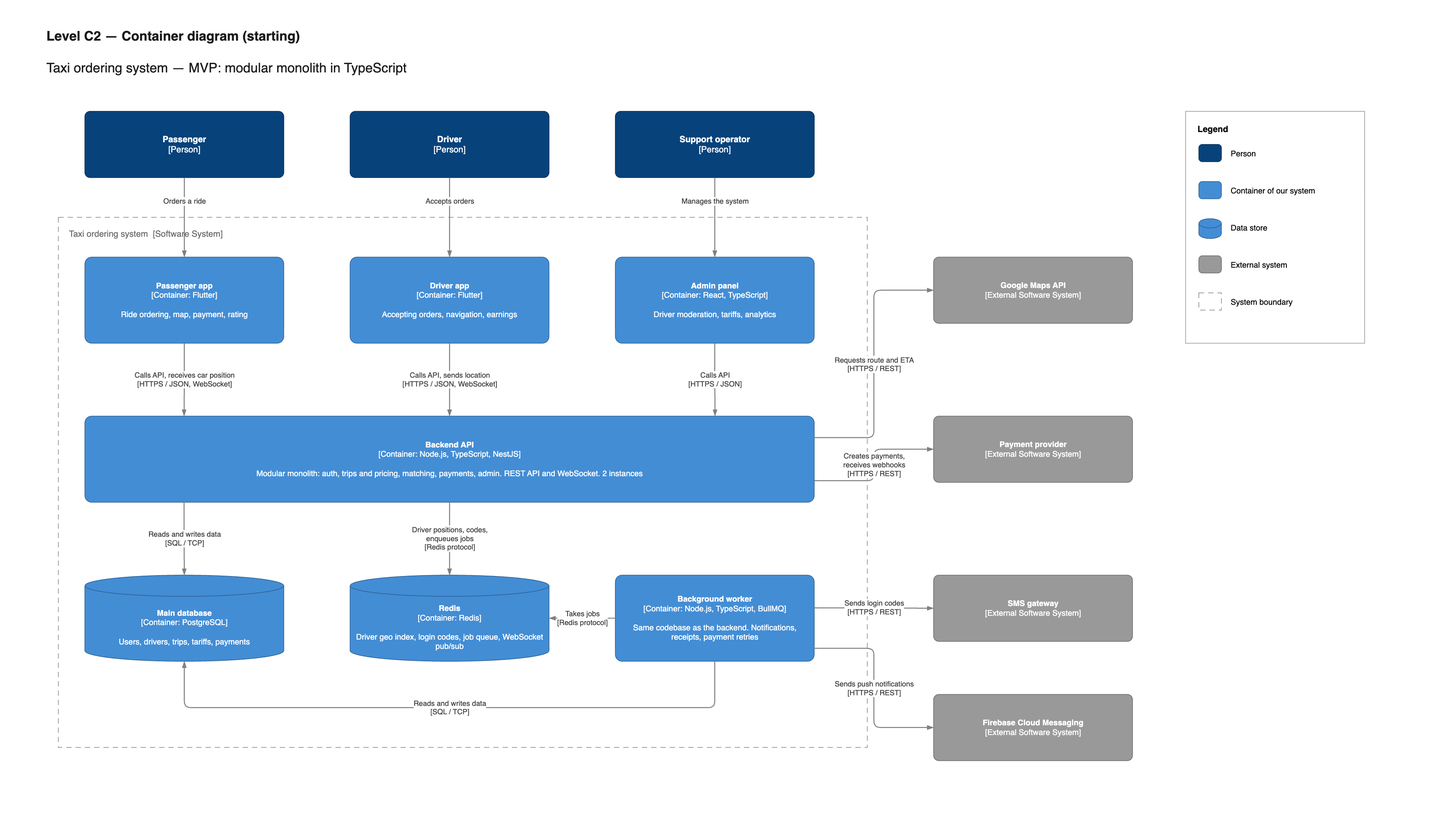
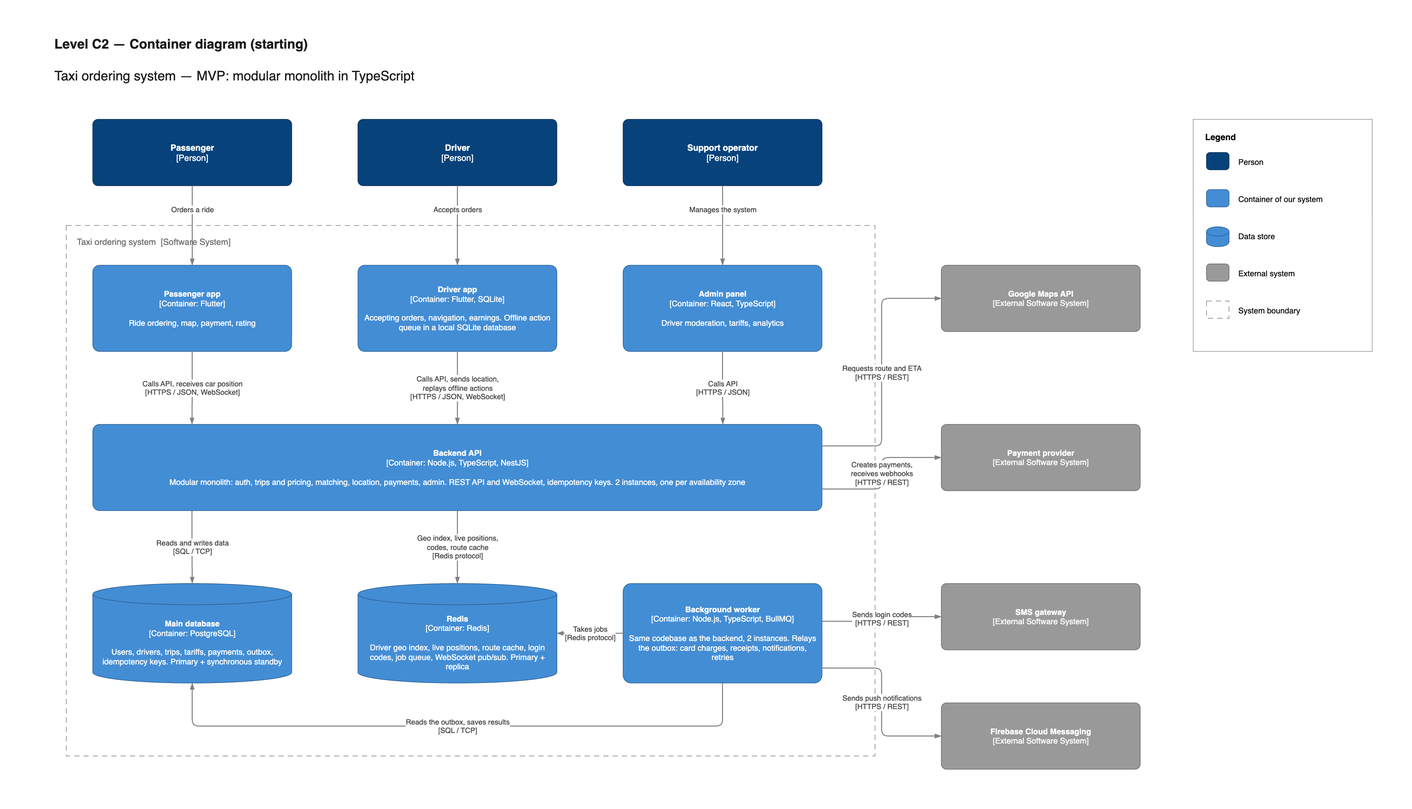
docs: record ADRs 0005-0007 and update starting architecture
- ADR-0005: two availability zones with automatic failover
- ADR-0006: idempotent actions, offline queue and transactional outbox
- ADR-0007: driver positions only in Redis
- New deployment diagram; worker goes from 1 to 2 instances
- C2: offline queue in the driver app, outbox and idempotency keys
- C3: location module, outbox instead of direct job enqueue

Claude-Session: https://claude.ai/code/session_01K2gPc9HqK2oouxzUnXU58f

Changed region(s): [[0.031, 0.0311, 0.8056, 0.9656], [0.6197, 0.1246, 0.9296, 0.4361]]

diff --git a/docs/architecture/starting/README.md b/docs/architecture/starting/README.md
@@ -8,12 +8,14 @@ Principles:
 2. **Modular monolith instead of microservices.** One backend codebase split into modules that mirror the ideal services. Modules call each other in-process, not over the network.
 3. **Specific technology only where it is really needed.** Every technology outside TypeScript must be justified by a requirement.
 4. **Managed services instead of self-hosted infrastructure.** PostgreSQL and Redis are rented as managed services, so the team does not operate databases.
+5. **Optimised for availability, fault tolerance and performance.** These are the three top [architecture characteristics](../characteristics.md); the others get a baseline and a stated consequence.
 
 ## Diagrams
 
 - [C1 — System Context](c1-system-context.md)
 - [C2 — Containers](c2-containers.md)
 - [C3 — Components of the backend API](c3-backend-api.md)
+- [Deployment](deployment.md)
 - draw.io: [`diagrams/taxi-c4-model-starting.drawio`](diagrams/taxi-c4-model-starting.drawio)
 
 ## Languages
@@ -43,7 +45,7 @@ Every container of the ideal architecture and what happens to it at the start:
 | Order service | Node.js | **Module** of the backend — trips module | Core logic stays isolated as a module |
 | Driver matching service | Go | **Module** of the backend — matching module, in TypeScript | 10–50 orders per minute do not need Go. The heavy part — nearest-driver search — is done by Redis |
 | Payment service | Node.js | **Module** of the backend — payments module | Card data never reaches us anyway (provider tokens, NFR-12), so a separate service gives little extra isolation |
-| Notification service | Node.js | **Background worker** — same codebase, separate process | Sending push and SMS must not slow down API requests |
+| Notification service | Node.js | **Background worker** — same codebase, separate process, 2 instances | Sending push and SMS must not slow down API requests. Also relays the outbox ([ADR-0006](../adr/0006-idempotent-actions-offline-queue-and-outbox.md)) |
 | PostgreSQL | PostgreSQL | **Kept** — managed PostgreSQL | Needs a real relational database (see below) |
 | Redis | Redis | **Kept** — managed Redis, used for more jobs | Needs Redis (see below) |
 | Kafka | Kafka | **Removed** — replaced by a job queue in Redis (BullMQ) | A Kafka cluster is expensive to run and operate; at 10 orders per minute a Redis queue with retries is enough |
@@ -56,7 +58,7 @@ Result: **12 containers → 7**, **5 languages → 3**, **3 data stores → 2**.
 | Technology | Why plain TypeScript code is not enough | Requirements |
 |---|---|---|
 | **PostgreSQL** | Trips and payments need transactions and integrity (a trip must not be paid twice). Managed PostgreSQL gives point-in-time recovery for RPO ≤ 15 min | NFR-10, FR-37, FR-15 |
-| **Redis** | One tool covers five jobs: (1) geo index of available drivers — nearest-driver search in milliseconds with ≈ 330–1,700 position updates per second; (2) one-time login codes and offer timers with automatic expiry (TTL); (3) job queue with retries for notifications, receipts and payment retries; (4) pub/sub that delivers WebSocket events between the two backend instances; (5) rate-limit counters. Without Redis each of these would need a separate solution | NFR-1, NFR-2, NFR-13, FR-1, FR-22, FR-14 |
+| **Redis** | One tool covers six jobs: (1) geo index of available drivers — nearest-driver search in milliseconds with ≈ 330–1,700 position updates per second, never written to PostgreSQL on the hot path ([ADR-0007](../adr/0007-driver-positions-in-redis-only.md)); (2) one-time login codes and offer timers with automatic expiry (TTL); (3) job queue with retries for notifications, receipts and payment retries; (4) pub/sub that delivers WebSocket events and live positions between the two backend instances; (5) rate-limit counters; (6) cache of repeated routes. Without Redis each of these would need a separate solution | NFR-1, NFR-2, NFR-13, FR-1, FR-22, FR-14 |
 | **Flutter** | Team constraint; background location and native maps on both platforms | CON-4, NFR-22, NFR-23 |
 | **Google Maps API** | Routes, ETA and address autocomplete are not something to build ourselves | CON-5, FR-4, FR-10 |
 | **Payment provider** | PCI DSS — card data must stay with a certified provider | CON-6, NFR-12 |
@@ -76,20 +78,7 @@ Result: **12 containers → 7**, **5 languages → 3**, **3 data stores → 2**.
 
 ## Deployment
 
-```
-Mobile apps, admin panel
-        │  HTTPS / WebSocket — one address: api.<domain>
-        ▼
-Managed load balancer (TLS)
-        │
-        ├── Backend API — 2 instances in different availability zones
-        └── Background worker — 1 instance
-                │
-                ├── Managed PostgreSQL — primary + standby, point-in-time recovery
-                └── Managed Redis — primary + replica, persistence enabled
-```
-
-Two backend instances in different zones and managed databases with a standby cover the 99.9% availability target ([NFR-7](../../requirements/non-functional.md)).
+One EU region, two availability zones: two backend instances and two workers (one of each per zone), PostgreSQL primary + synchronous standby and Redis primary + replica in different zones, all behind a managed load balancer. This covers the 99.9% availability target ([NFR-7](../../requirements/non-functional.md)) and survives the loss of a whole zone. Details and the diagram: [deployment](deployment.md), decision: [ADR-0005](../adr/0005-two-availability-zones-with-failover.md).
 
 ### Infrastructure cost estimate
 
@@ -98,18 +87,22 @@ Rough monthly estimate for one EU region (Google Maps and SMS are counted separa
 | Item | USD per month |
 |---|---|
 | Backend API, 2 instances (2 vCPU, 4 GB) | 80 – 150 |
-| Background worker, 1 instance | 40 – 70 |
+| Background worker, 2 instances | 80 – 140 |
 | Managed PostgreSQL with standby | 150 – 300 |
 | Managed Redis with replica | 60 – 120 |
 | Load balancer, file storage (driver documents), backups | 50 – 100 |
 | Logging and monitoring | 0 – 100 |
-| **Total** | **≈ 380 – 840** |
+| **Total** | **≈ 420 – 910** |
 
 ## Trade-offs
 
 - **One deployable:** a bug in one module can take down the whole backend. Mitigated by two instances, staged rollout ([NFR-26](../../requirements/non-functional.md)) and fast rollback.
 - **Shared database load:** a heavy analytics query from the admin panel can slow down trips. Mitigated by limiting admin queries and adding a read replica when needed.
-- **No event replay:** a Redis job queue does not keep a history of events the way Kafka does. Trip state lives in PostgreSQL, so nothing is lost, but past events cannot be re-processed.
+- **No event replay:** a Redis job queue does not keep a history of events the way Kafka does. Trip state and the outbox live in PostgreSQL, so nothing is lost, but past events cannot be re-processed.
+- **One region:** a whole-region outage is not covered by failover; recovery from backups in the second region takes hours (NFR-10 holds for zone failures only).
+- **Payments in the same process:** the separate network zone for payments (NFR-12) exists only in the ideal architecture.
+
+These follow from the characteristics that were deliberately left out of the top three, see [characteristics](../characteristics.md#left-out-and-the-consequence).
 
 ## Path to the ideal architecture
 

diff --git a/docs/architecture/starting/c3-backend-api.md b/docs/architecture/starting/c3-backend-api.md
@@ -10,15 +10,16 @@ The backend API is the only container with business logic, so it is the one open
 
 | Component | Role | Becomes in the ideal architecture |
 |---|---|---|
-| API layer | NestJS controllers for REST and a Socket.IO gateway for WebSocket. Validates input, checks the access token, applies rate limits. No business logic | API Gateway + real-time service |
+| API layer | NestJS controllers for REST and a Socket.IO gateway for WebSocket. Validates input, checks the access token, applies rate limits, returns the stored result for a repeated idempotency key. No business logic | API Gateway + real-time service |
 | Auth module | Login codes (6 digits, 5 min TTL in Redis), Google / Apple sign-in, access and refresh tokens | Part of the gateway |
 | Admin module | Driver moderation, tariff management, analytics queries | Admin endpoints of the services |
-| Trips module | Trip state machine, cancellations and fees, price calculation with the shared pricing package ([`packages/shared/pricing.js`](../../../packages/shared/pricing.js)) | Order service |
+| Trips module | Trip state machine, cancellations and fees, price calculation with the shared pricing package ([`packages/shared/pricing.js`](../../../packages/shared/pricing.js)). Saves the trip state and the outbox event (charge, push, receipt) in one transaction | Order service |
 | Matching module | Nearest drivers via Redis `GEOSEARCH`, ranking, offers with a 15 s timeout | Driver matching service |
-| Payments module | Payment provider client, webhook handling, refunds | Payment service |
-| Data access | Prisma client and migrations; the only place that knows the database schema | Repositories in each service |
-| Maps client | Google Maps calls for distance, duration and ETA, with caching of repeated routes | Maps client of the order service |
-| Redis adapter | ioredis and BullMQ: geo index, TTL keys, job queue, pub/sub between instances | Redis client + Kafka publisher |
+| Location module | Receives driver positions, updates the Redis geo index and the live trip channel, appends track points to a Redis stream. Never writes to PostgreSQL ([ADR-0007](../adr/0007-driver-positions-in-redis-only.md)) | Real-time service |
+| Payments module | Payment provider client with the trip ID as the idempotency key, webhook deduplication by payment ID, refunds, reconciliation | Payment service |
+| Data access | Prisma client and migrations; the only place that knows the database schema. Writes outbox events and idempotency keys in the same transaction as the business change | Repositories in each service |
+| Maps client | Google Maps calls for distance, duration and ETA; route cache in Redis; circuit breaker with a straight-line fallback (UP-22) | Maps client of the order service |
+| Redis adapter | ioredis and BullMQ: geo index, TTL keys, job queue, pub/sub between instances, route cache | Redis client |
 
 ## Rules inside the monolith
 
@@ -27,6 +28,10 @@ The modules live in one process, so nothing technically stops them from calling 
 1. **A module talks to another module only through its public interface** (an exported NestJS service), never through its database tables.
 2. **Each module owns its tables.** The trips module does not write to payment tables directly — it asks the payments module.
 3. **Business logic does not know about NestJS, Prisma or Redis.** Logic calls interfaces; the data access, maps client and Redis adapter implement them — the same ports-and-adapters idea as in the [ideal C3](../ideal/c3-order-service.md).
+
+## How jobs leave the backend
+
+The trips module does not enqueue jobs into Redis itself. Writing to PostgreSQL and then to Redis is a dual write: a crash between the two steps would lose the card charge. Instead, the trip state and the outbox event are saved in one transaction, and the background worker — the same codebase in worker mode — relays the outbox and executes the job ([ADR-0006](../adr/0006-idempotent-actions-offline-queue-and-outbox.md)). Offers to drivers do not go through the outbox: they are latency-critical and handled by the matching module directly.
 
 Trip states are the same as in the ideal architecture: see [trip states](../ideal/c3-order-service.md#trip-states).
 

diff --git a/docs/architecture/starting/c2-containers.md b/docs/architecture/starting/c2-containers.md
@@ -12,21 +12,25 @@ Seven containers instead of twelve: three client apps, one backend, one backgrou
 
 **Backend API.** One NestJS application that replaces the gateway, the real-time service and four services of the ideal architecture. Inside it is split into modules with the same boundaries as the ideal services, see [C3](c3-backend-api.md). It runs as two instances behind a managed load balancer, so clients know one address ([ADR-0004](../adr/0004-api-gateway-single-entry-point.md)).
 
-**Background worker.** The same codebase started in worker mode. It processes jobs from the Redis queue: push notifications, SMS codes, receipts, payment retries, clean-up of old location data ([NFR-16](../../requirements/non-functional.md)). Slow external calls never block an API request.
+**Driver app offline queue.** Actions the driver takes without a network are stored in a local SQLite database and replayed in order with idempotency keys after reconnection ([ADR-0006](../adr/0006-idempotent-actions-offline-queue-and-outbox.md)). SQLite runs inside the app process, so it is part of the driver app container, not a separate one.
 
-**Two data stores.** PostgreSQL is the source of truth. Redis is the only extra technology on the server side and is used for five jobs: driver geo index, login codes and offer timers with TTL, job queue, WebSocket pub/sub between instances, rate-limit counters.
+**Background worker.** The same codebase started in worker mode, two instances. It relays the outbox — events written by the backend in the same transaction as the business change — and processes jobs from the Redis queue: push notifications, SMS codes, receipts, payment charges and retries, batched trip tracks, clean-up of old location data ([NFR-16](../../requirements/non-functional.md)). Slow external calls never block an API request.
+
+**Two data stores.** PostgreSQL is the source of truth, including the outbox and idempotency keys. Redis is the only extra technology on the server side and is used for six jobs: driver geo index and live positions ([ADR-0007](../adr/0007-driver-positions-in-redis-only.md)), login codes and offer timers with TTL, job queue, WebSocket pub/sub between instances, rate-limit counters, route cache.
+
+How the containers are placed in two availability zones is shown on the [deployment diagram](deployment.md).
 
 ## Containers
 
 | Container | Technology | Responsibility | Instances | Requirements |
 |---|---|---|---|---|
 | Passenger app | Flutter | Ordering, map, payment, rating | — | FR-1 … FR-19 |
-| Driver app | Flutter | Accepting orders, navigation, earnings | — | FR-20 … FR-28 |
+| Driver app | Flutter, SQLite | Accepting orders, navigation, earnings, offline action queue | — | FR-20 … FR-28, NFR-9 |
 | Admin panel | React, TypeScript | Moderation, tariffs, analytics | — | FR-29 … FR-34 |
-| Backend API | Node.js, TypeScript, NestJS, Socket.IO | REST API, WebSocket, all business logic | 2 | FR-1 … FR-38, NFR-1, NFR-3 |
-| Background worker | Node.js, TypeScript, BullMQ | Notifications, receipts, payment retries, clean-up jobs | 1 | FR-14, FR-15, FR-18, NFR-16, NFR-17 |
-| Main database | PostgreSQL (managed) | Users, drivers, trips, tariffs, payments | Primary + standby | NFR-10 |
-| Redis | Redis (managed) | Geo index, TTL keys, job queue, pub/sub, rate limits | Primary + replica | NFR-1, NFR-2, NFR-13 |
+| Backend API | Node.js, TypeScript, NestJS, Socket.IO | REST API, WebSocket, all business logic, idempotency keys | 2, one per zone | FR-1 … FR-38, NFR-1, NFR-3, NFR-8 |
+| Background worker | Node.js, TypeScript, BullMQ | Outbox relay, notifications, receipts, payment charges and retries, clean-up jobs | 2, one per zone | FR-14, FR-15, FR-18, NFR-8, NFR-16, NFR-17 |
+| Main database | PostgreSQL (managed) | Users, drivers, trips, tariffs, payments, outbox, idempotency keys | Primary + synchronous standby | NFR-8, NFR-10 |
+| Redis | Redis (managed) | Geo index, live positions, TTL keys, job queue, pub/sub, rate limits, route cache | Primary + replica | NFR-1, NFR-2, NFR-13 |
 
 ## Compared with the ideal C2
 

diff --git a/docs/architecture/adr/0006-idempotent-actions-offline-queue-and-outbox.md b/docs/architecture/adr/0006-idempotent-actions-offline-queue-and-outbox.md
@@ -1,0 +1,44 @@
+# ADR-0006: Idempotent actions, offline queue in the driver app and transactional outbox
+
+- **Status:** Accepted
+- **Date:** 2026-11-24
+
+## Context
+
+Fault tolerance is one of the three top [architecture characteristics](../characteristics.md) (AC-2). No active trip may be lost, and the apps must keep working on a poor connection ([NFR-8](../../requirements/non-functional.md), [NFR-9](../../requirements/non-functional.md), [UP-13](../../requirements/unhappy-paths.md)). In Ukraine, drivers regularly lose the network during power outages.
+
+Three problems had no answer in the architecture:
+
+1. **A driver action taken offline** ("Passenger on board", "Complete trip") was lost if the app could not reach the server.
+2. **A retried request** after a timeout could be applied twice: the first attempt may have succeeded and only the response was lost.
+3. **A dual write in the trips module.** On completion it saved the trip in PostgreSQL and then enqueued the charge job in Redis. A crash between the two steps lost the charge; enqueuing first and failing the commit charged for a trip that was never completed.
+
+## Decision
+
+Every trip action is delivered **at least once** and applied **exactly once**:
+
+1. **Offline queue in the driver app.** Driver actions are stored in a local SQLite database with the device time, the GPS point and a client-generated idempotency key, and sent in order after reconnection with retries (1, 2, 4 … 30 s). The server state wins a conflict: if the passenger cancelled while the driver was offline, the queued action is rejected and the driver is shown why.
+2. **Idempotency keys on the server.** The API layer stores each processed key with its result for 48 h in PostgreSQL, in the same transaction as the business change. A repeated request gets the stored result.
+3. **Transactional outbox.** A module writes the business change and the event it triggers (charge, push, receipt) to an `outbox` table in **one transaction**. The background worker reads the outbox every second (`FOR UPDATE SKIP LOCKED`) and executes or enqueues the job. Jobs are idempotent themselves: a charge uses the trip ID as the payment provider's idempotency key.
+4. **External calls** have timeouts, retries with backoff and a circuit breaker, with the fallbacks from the [unhappy paths](../../requirements/unhappy-paths.md): cached or straight-line route (UP-22), cash (UP-18), Google / Apple sign-in (UP-25).
+
+## Alternatives considered
+
+- **Enqueue jobs in Redis directly after the commit** — simple, but it is the dual write described above.
+- **Distributed transaction across PostgreSQL and Redis** — Redis does not take part in two-phase commit; the complexity is not justified.
+- **Kafka with an outbox** — the ideal architecture; too expensive to run for the MVP. The outbox table is the same, only the relay changes.
+- **Online-only driver app** — fails NFR-9 and UP-13.
+
+## Consequences
+
+**Positive:**
+
+- No lost or duplicated status changes or charges, verified by [QAS-2](../characteristics.md#qas-2-fault-tolerance-driver-offline-during-a-trip).
+- When the trips module is extracted into the order service, the outbox moves with it and is relayed to Kafka instead of Redis.
+
+**Negative:**
+
+- Jobs start up to ≈ 1–2 s after the commit because of outbox polling. Latency-critical paths (offers to drivers) do not go through the outbox.
+- The outbox and idempotency tables need clean-up jobs.
+- The driver app becomes offline-first: a local database, ordered replay and conflict handling, which adds work to the Flutter app chosen in [ADR-0003](0003-flutter-and-react-clients.md).
+- Times recorded on the device can be tampered with, so they are checked against the GPS track and the map route ([UP-17](../../requirements/unhappy-paths.md)).

diff --git a/docs/architecture/adr/0005-two-availability-zones-with-failover.md b/docs/architecture/adr/0005-two-availability-zones-with-failover.md
@@ -1,0 +1,47 @@
+# ADR-0005: Two availability zones with automatic failover
+
+- **Status:** Accepted
+- **Date:** 2026-11-24
+
+## Context
+
+Availability is one of the three top [architecture characteristics](../characteristics.md) (AC-1). Ordering must be available ≥ 99.9% per month, which allows at most 43 min of downtime ([NFR-7](../../requirements/non-functional.md)). The most likely infrastructure failure is the loss of one instance or one availability zone ([UP-23](../../requirements/unhappy-paths.md), [UP-24](../../requirements/unhappy-paths.md)); restoring a database from backup alone takes longer than the whole monthly budget.
+
+Data must stay in Ukraine or the EU ([CON-8](../../requirements/constraints.md)) and infrastructure must cost no more than $2,000 per month ([CON-1](../../requirements/constraints.md)).
+
+The starting architecture previously described the instances only as a text sketch, and the background worker ran as a single instance — a single point of failure for card charges, receipts and notifications.
+
+## Decision
+
+Production runs in **one EU region across two availability zones**:
+
+- A **managed load balancer** spanning both zones is the only public entry point. It terminates TLS and checks instance health every 10 s. This is how the single entry point of [ADR-0004](0004-api-gateway-single-entry-point.md) is implemented in the starting architecture: the gateway logic is middleware inside the backend.
+- **Backend API: 2 instances**, one per zone, stateless; scales out to 4 at CPU > 70%.
+- **Background worker: 2 instances**, one per zone. Jobs are taken with locking, so both workers can run at the same time without processing a job twice.
+- **PostgreSQL:** managed, primary + **synchronous standby** in the other zone, automatic failover, point-in-time recovery.
+- **Redis:** managed, primary + replica in the other zone, automatic failover, append-only file persistence.
+- **Clients** retry with backoff and an idempotency key ([ADR-0006](0006-idempotent-actions-offline-queue-and-outbox.md)) and reconnect WebSocket automatically.
+- A **synthetic check** places a test order every minute from two regions.
+- **Backups** are copied to a second EU region; no environment runs there.
+
+See the [deployment diagram](../starting/deployment.md).
+
+## Alternatives considered
+
+- **Single zone, restore from backup** — about $150–280 per month cheaper, but a zone outage means hours of downtime and breaks NFR-7.
+- **Two regions, active-passive** — survives a region outage, but roughly doubles infrastructure cost and the operational work; region-wide outages are much rarer than zone outages.
+- **Self-hosted PostgreSQL with Patroni** — same failover, but the small team ([CON-3](../../requirements/constraints.md)) would have to operate it.
+
+## Consequences
+
+**Positive:**
+
+- The loss of an instance or a zone interrupts ordering for ≤ 3 min with no lost data ([QAS-1](../characteristics.md#qas-1-availability-loss-of-an-availability-zone)).
+- Releases are rolled out one instance at a time without downtime.
+
+**Negative:**
+
+- ≈ $150–280 per month more than a single zone (database standby, Redis replica, second worker).
+- Synchronous replication adds a few milliseconds to every database write.
+- A failover drops open WebSocket connections; clients must reconnect and resynchronise ([UP-23](../../requirements/unhappy-paths.md)).
+- A whole-region outage is not covered: recovery from backups takes hours (see [characteristics](../characteristics.md#left-out-and-the-consequence), AC-7).

diff --git a/docs/architecture/adr/0007-driver-positions-in-redis-only.md b/docs/architecture/adr/0007-driver-positions-in-redis-only.md
@@ -1,0 +1,37 @@
+# ADR-0007: Driver positions only in Redis, pushed to passengers over WebSocket
+
+- **Status:** Accepted
+- **Date:** 2026-11-24
+
+## Context
+
+Performance is one of the three top [architecture characteristics](../characteristics.md) (AC-3). The offer must reach the first candidate within p95 ≤ 5 s ([NFR-1](../../requirements/non-functional.md)), the car position must reach the passenger within p95 ≤ 1 s ([NFR-2](../../requirements/non-functional.md)), and the API must answer within p95 ≤ 300 ms ([NFR-3](../../requirements/non-functional.md)).
+
+Every online driver sends a position every 3 s: ≈ 330 updates per second on average and ≈ 1,700 at peak. This is by far the largest write stream in the system, and it would compete with trips and payments for the same PostgreSQL instance. The C3 diagram sent positions into the matching module without saying where they were stored.
+
+## Decision
+
+- A separate **location module** in the backend receives driver positions over WebSocket.
+- Each position goes **only to Redis**: `GEOADD` into the geo index of available drivers, and a publish to the trip channel when the driver is on a trip. The API layer of any backend instance pushes it to the passenger over WebSocket; Redis pub/sub connects the two instances.
+- Nearest-driver search in the matching module is `GEOSEARCH` in Redis.
+- **Nothing is written to PostgreSQL on this path.** Track points of active trips are appended to a Redis stream and saved to PostgreSQL in batches by the background worker every 30 s and at trip completion.
+- Repeated routes from Google Maps are cached in Redis.
+
+## Alternatives considered
+
+- **PostgreSQL with PostGIS** — geo queries are possible, but 1,700 writes per second plus index maintenance load the same database that holds trips and payments, putting NFR-3 at risk.
+- **Passenger app polls for the position** — up to 500 extra requests per second, more battery and traffic, and a delay of up to the polling interval.
+- **Separate real-time service** — the ideal architecture; at 7,500 peak connections it is not needed yet (see the [path to the ideal architecture](../starting/README.md#path-to-the-ideal-architecture)).
+
+## Consequences
+
+**Positive:**
+
+- Nearest-driver search in milliseconds ([QAS-3](../characteristics.md#qas-3-performance-driver-matching-at-peak-load)); PostgreSQL load does not grow with the number of drivers online.
+- The location module has the same boundary as the future real-time service, so it can be extracted without a rewrite.
+
+**Negative:**
+
+- Positions are volatile: after a Redis failover drivers may briefly disappear from the map until their next update ([UP-24](../../requirements/unhappy-paths.md)).
+- Up to ≈ 1 s of track points can be lost in a Redis failure; the price then falls back to the map route ([UP-17](../../requirements/unhappy-paths.md)).
+- The retention rules from [NFR-16](../../requirements/non-functional.md) must be applied in two places: Redis and the batched track in PostgreSQL.

diff --git a/docs/architecture/README.md b/docs/architecture/README.md
@@ -18,8 +18,12 @@ Both implement the same [requirements](../requirements/functional.md). The start
 | Languages | Dart, TypeScript, SQL | Dart, TypeScript, Go, SQL, Protobuf |
 | Data stores | PostgreSQL, Redis | PostgreSQL, Redis, Kafka |
 | Communication inside the backend | In-process calls, Redis job queue | gRPC, Kafka events |
-| Infrastructure cost | ≈ $380–840 per month | Several times higher: Kafka cluster, more instances |
+| Infrastructure cost | ≈ $420–910 per month | Several times higher: Kafka cluster, more instances |
 | Suited for | MVP, one city, ≈ 10–50 orders per minute | Many cities, hundreds of orders per minute, several teams |
+
+## Architecture characteristics
+
+The three characteristics the architecture is optimised for — availability, fault tolerance and performance — the consequences of leaving out the others, quality attribute scenarios and the resulting changes are in [characteristics.md](characteristics.md).
 
 ## C4 model
 
@@ -31,6 +35,7 @@ Both versions are described with the **C4 model**: four levels of detail, from t
 | C2 — Containers | Separately running apps, services and data stores, each with its technology | Architect, whole team | [C2](starting/c2-containers.md) | [C2](ideal/c2-containers.md) |
 | C3 — Components | Internals of the container with the core business logic | Developers | [C3: backend API](starting/c3-backend-api.md) | [C3: order service](ideal/c3-order-service.md) |
 | C4 — Code | Classes and methods of a component | — | Not drawn: code changes daily and the diagram would go stale faster than it could be updated | |
+| Deployment | Zones, instances, replicas and failover in production | Architect, operations | [Deployment](starting/deployment.md) | — |
 
 ## Diagrams
 
@@ -38,7 +43,7 @@ All diagrams in the project are drawn in **draw.io**. Each document shows a PNG 
 
 | File | Pages |
 |---|---|
-| [`starting/diagrams/taxi-c4-model-starting.drawio`](starting/diagrams/taxi-c4-model-starting.drawio) | C1, C2, C3 of the starting architecture |
+| [`starting/diagrams/taxi-c4-model-starting.drawio`](starting/diagrams/taxi-c4-model-starting.drawio) | C1, C2, C3 and deployment of the starting architecture |
 | [`ideal/diagrams/taxi-c4-model.drawio`](ideal/diagrams/taxi-c4-model.drawio) | C1, C2, C3 of the ideal architecture |
 | [`../requirements/diagrams/taxi-requirements.drawio`](../requirements/diagrams/taxi-requirements.drawio) | Use cases, two sequence diagrams, passenger funnel, trip state machine |
 

diff --git a/docs/architecture/starting/deployment.md b/docs/architecture/starting/deployment.md
@@ -1,0 +1,27 @@
+# Deployment diagram: Taxi ordering system (starting)
+
+The C2 diagram shows *what* runs; this diagram shows *where* it runs and how it survives failures. It exists because of availability, one of the three top [architecture characteristics](../characteristics.md): "99.9%" changes nothing on C2, while two zones, a standby and failover only become visible here. Decision: [ADR-0005](../adr/0005-two-availability-zones-with-failover.md).
+
+![Deployment diagram (starting)](diagrams/deployment.png)
+
+*Source: [`taxi-c4-model-starting.drawio`](diagrams/taxi-c4-model-starting.drawio), page "Deployment". Open it at [app.diagrams.net](https://app.diagrams.net) to edit.*
+
+## Nodes
+
+| Node | Runs | In zone A | In zone B | On failure |
+|---|---|---|---|---|
+| Managed load balancer | TLS, health checks every 10 s, routing | Spans both zones | Spans both zones | Managed by the cloud provider |
+| Backend API | NestJS, REST and WebSocket | Instance 1 | Instance 2 | The load balancer sends all traffic to the healthy instance; WebSocket clients reconnect |
+| Background worker | BullMQ, outbox relay | Instance 1 | Instance 2 | The other worker keeps taking jobs; jobs are locked, so none is processed twice |
+| PostgreSQL (managed) | Main database | Primary | Synchronous standby | The standby is promoted automatically; no committed transaction is lost |
+| Redis (managed) | Geo index, queue, pub/sub, cache | Primary | Replica | The replica is promoted; driver positions are rebuilt from the next updates |
+| Backup storage | Daily snapshots and transaction log, 30 days | Second EU region | | Restore point for a region-wide outage (hours, see AC-7 in [characteristics](../characteristics.md#left-out-and-the-consequence)) |
+| Synthetic monitoring | Test order every minute from two regions | External | | Measures actual availability against NFR-7 |
+
+All instances in both zones connect to the current primaries through managed endpoints. After a failover the endpoint points to the promoted standby or replica, so the backend configuration does not change.
+
+## Scenario
+
+The behaviour on the loss of a whole zone is described as a quality attribute scenario: [QAS-1](../characteristics.md#qas-1-availability-loss-of-an-availability-zone).
+
+Previous: [C2 — Containers](c2-containers.md).

diff --git a/docs/requirements/non-functional.md b/docs/requirements/non-functional.md
@@ -93,5 +93,10 @@ NFR-9 and NFR-10 deserve special attention: power outages and overloaded mobile 
 | NFR-3, NFR-7, NFR-11, NFR-13, NFR-14 | [ADR-0004](../architecture/adr/0004-api-gateway-single-entry-point.md) API Gateway as the single entry point |
 | NFR-22 | [ADR-0003](../architecture/adr/0003-flutter-and-react-clients.md) Flutter for mobile apps, React for the admin panel |
 | NFR-24 | [ADR-0002](../architecture/adr/0002-monorepo.md) Monorepo |
+| NFR-7, NFR-10 | [ADR-0005](../architecture/adr/0005-two-availability-zones-with-failover.md) Two availability zones with automatic failover |
+| NFR-8, NFR-9 | [ADR-0006](../architecture/adr/0006-idempotent-actions-offline-queue-and-outbox.md) Idempotent actions, offline queue and transactional outbox |
+| NFR-1, NFR-2, NFR-3 | [ADR-0007](../architecture/adr/0007-driver-positions-in-redis-only.md) Driver positions only in Redis |
+
+Which of these requirements drive the architecture, and which were deliberately given lower priority, is analysed in [architecture characteristics](../architecture/characteristics.md).
 
 Product metrics (conversion, cancellations, retention) are listed in the [success metrics](success-metrics.md).

diff --git a/services/README.md b/services/README.md
@@ -8,8 +8,8 @@ One TypeScript codebase, two processes ([C2 starting](../docs/architecture/start
 
 | Service | Technology | Responsibility |
 |---|---|---|
-| `api` | Node.js, TypeScript, NestJS, Socket.IO | REST API and WebSocket; modules: auth, admin, trips, matching, payments ([C3](../docs/architecture/starting/c3-backend-api.md)) |
-| `api` in worker mode | Node.js, TypeScript, BullMQ | Background jobs: notifications, SMS codes, receipts, payment retries, clean-up |
+| `api` | Node.js, TypeScript, NestJS, Socket.IO | REST API and WebSocket; modules: auth, admin, trips, matching, location, payments ([C3](../docs/architecture/starting/c3-backend-api.md)) |
+| `api` in worker mode | Node.js, TypeScript, BullMQ | Outbox relay and background jobs: card charges, notifications, SMS codes, receipts, payment retries, batched trip tracks, clean-up |
 
 Data stores: PostgreSQL (main database), Redis (geo index, TTL keys, job queue, pub/sub).
 

diff --git a/docs/architecture/adr/README.md b/docs/architecture/adr/README.md
@@ -8,6 +8,9 @@ An Architecture Decision Record is a short document that captures one significan
 | [0002](0002-monorepo.md) | Monorepo for clients, services and documentation | Accepted |
 | [0003](0003-flutter-and-react-clients.md) | Flutter for mobile apps, React for the admin panel | Accepted |
 | [0004](0004-api-gateway-single-entry-point.md) | API Gateway as the single entry point | Accepted |
+| [0005](0005-two-availability-zones-with-failover.md) | Two availability zones with automatic failover | Accepted |
+| [0006](0006-idempotent-actions-offline-queue-and-outbox.md) | Idempotent actions, offline queue in the driver app and transactional outbox | Accepted |
+| [0007](0007-driver-positions-in-redis-only.md) | Driver positions only in Redis, pushed to passengers over WebSocket | Accepted |
 
 ## Rules
 
